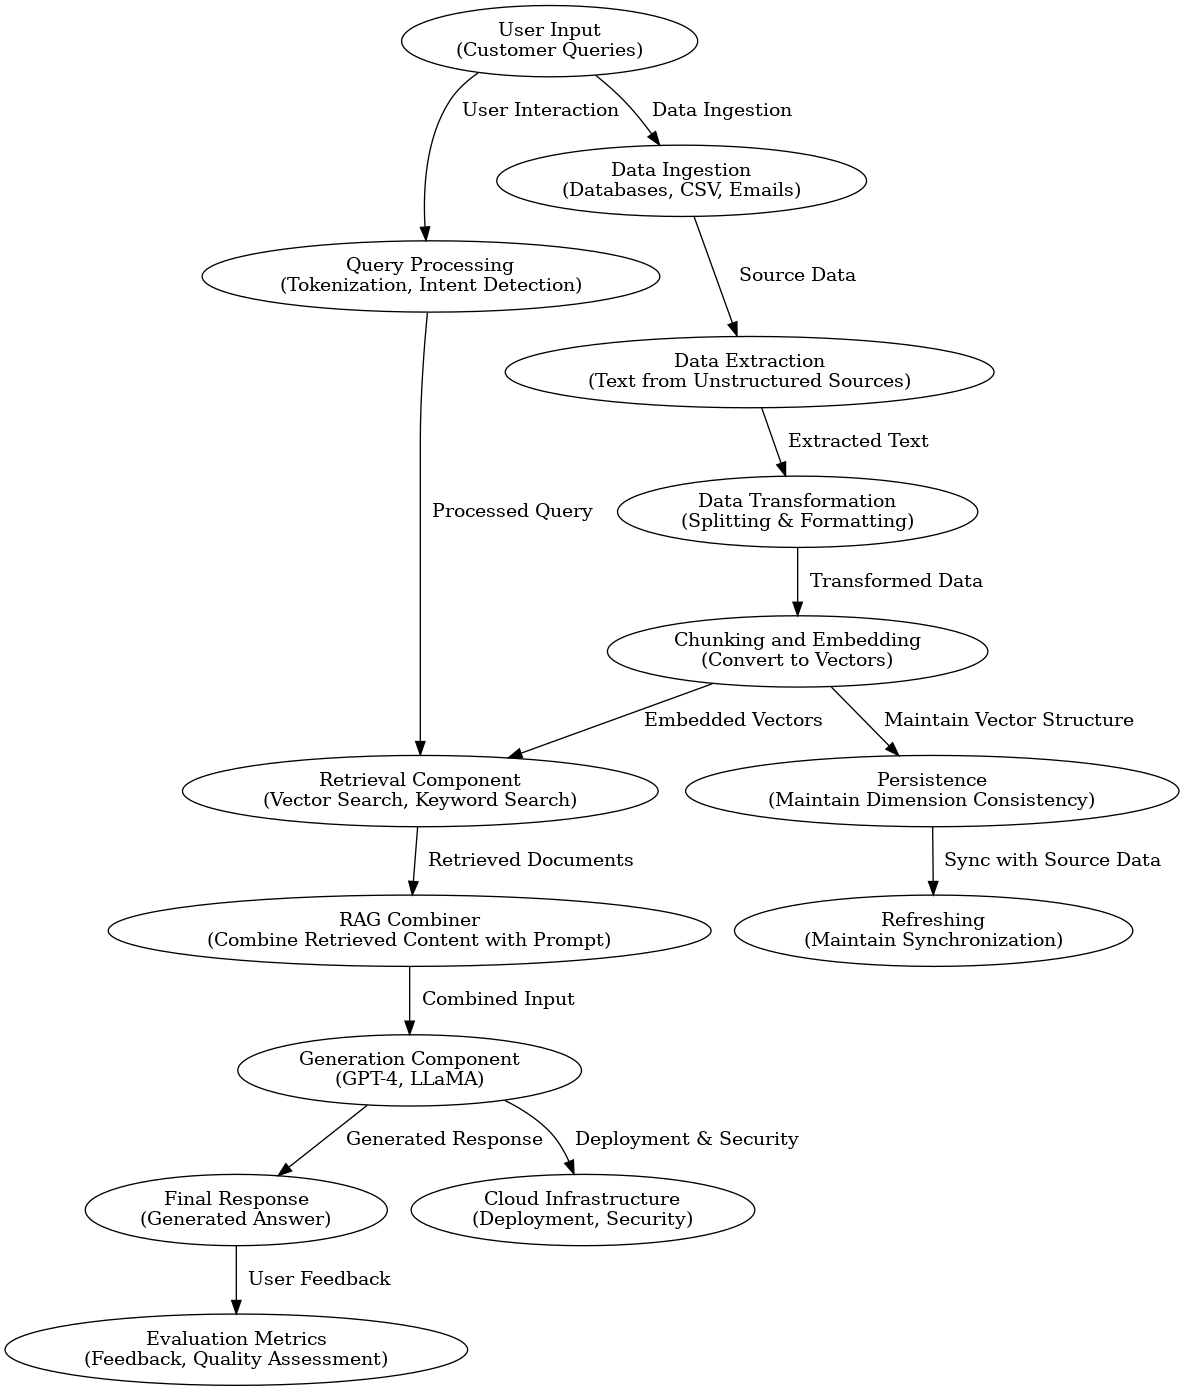
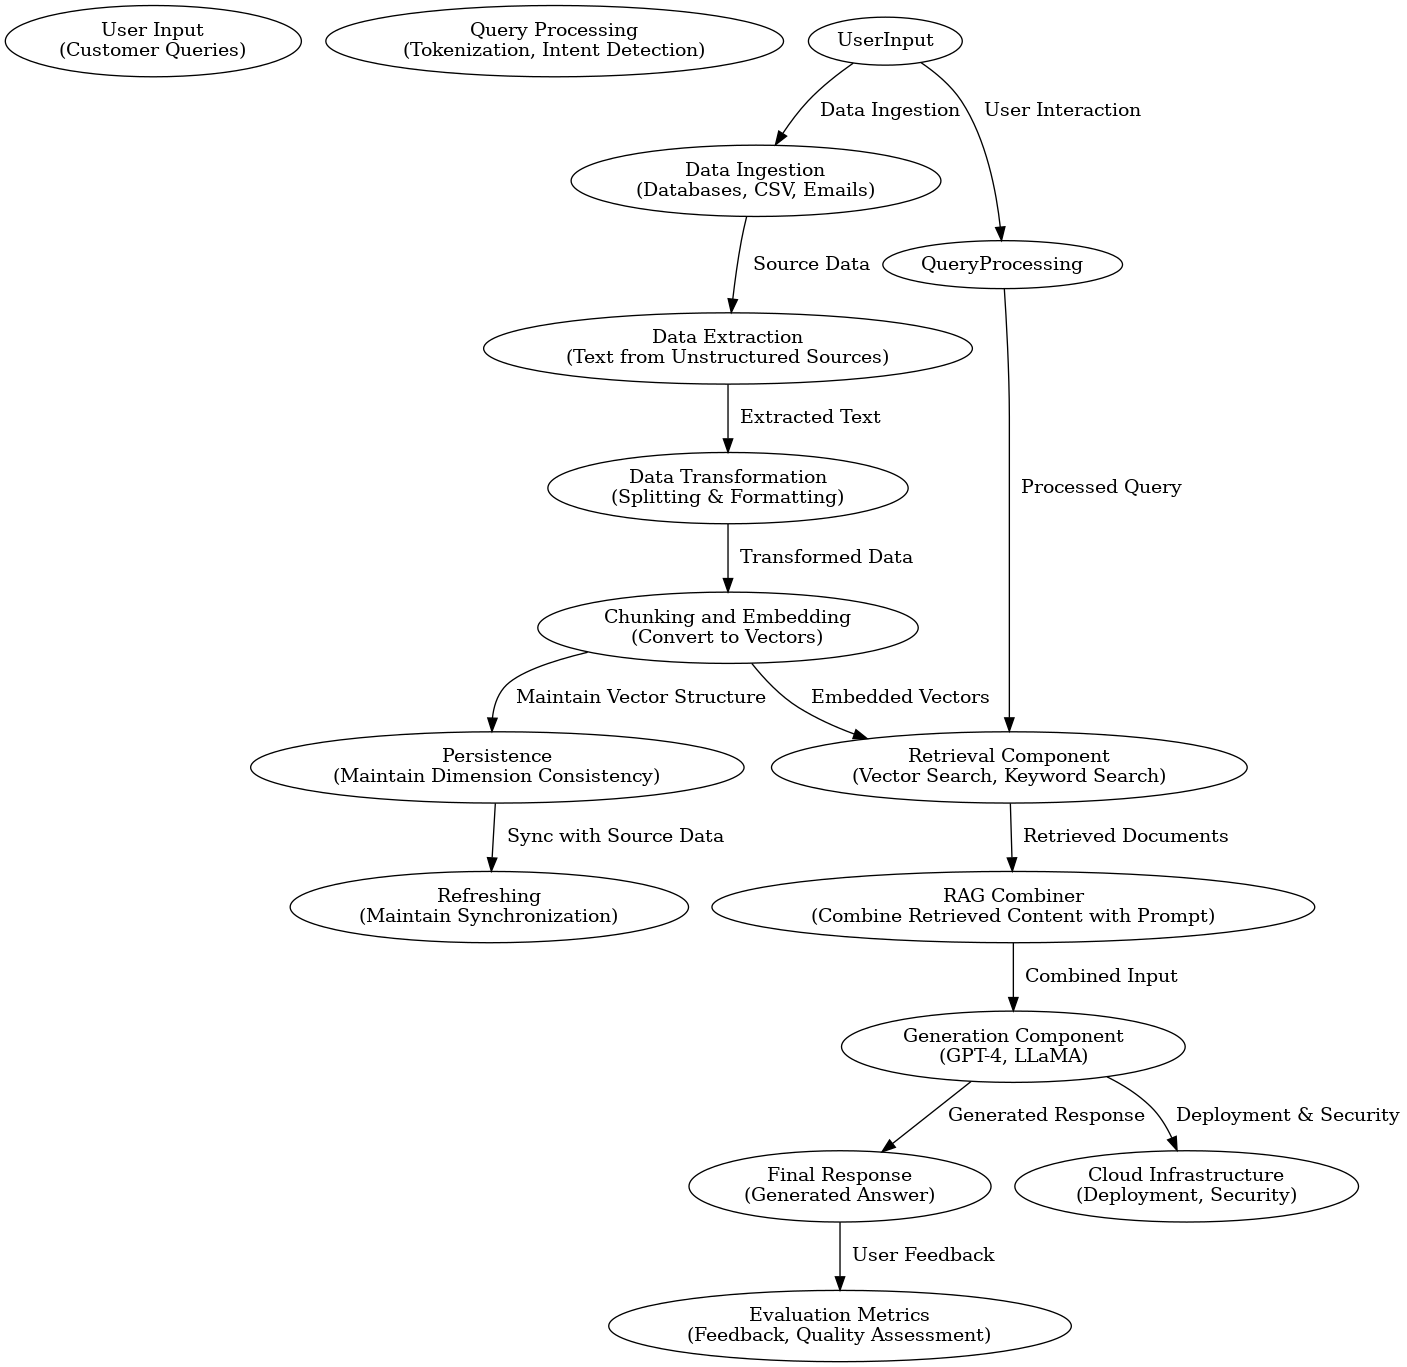
clean up

diff --git a/RAG_pipeline.py b/RAG_pipeline.py
@@ -1,42 +1,68 @@
 from graphviz import Digraph
 
-# Create a new directed graph
 dot = Digraph()
 
-# Define nodes with descriptive names
-dot.node("UserInput", "User Input\n(Customer Queries)")
-dot.node("QueryProcessing", "Query Processing\n(Tokenization, Intent Detection)")
-dot.node("RetrievalComponent", "Retrieval Component\n(Vector Search, Keyword Search)")
-dot.node("RAGCombiner", "RAG Combiner\n(Combine Retrieved Content with Prompt)")
-dot.node("GenerationComponent", "Generation Component\n(GPT-4, LLaMA)")
-dot.node("FinalResponse", "Final Response\n(Generated Answer)")
-dot.node("DataIngestion", "Data Ingestion\n(Databases, CSV, Emails)")
-dot.node("Extraction", "Data Extraction\n(Text from Unstructured Sources)")
-dot.node("Transformation", "Data Transformation\n(Splitting & Formatting)")
-dot.node("ChunkingEmbedding", "Chunking and Embedding\n(Convert to Vectors)")
-dot.node("Persistence", "Persistence\n(Maintain Dimension Consistency)")
-dot.node("Refreshing", "Refreshing\n(Maintain Synchronization)")
-dot.node("CloudInfrastructure", "Cloud Infrastructure\n(Deployment, Security)")
-dot.node("EvaluationMetrics", "Evaluation Metrics\n(Feedback, Quality Assessment)")
+dot.attr(ranksep="1.0", nodesep="1.0")
 
-# Define edges connecting the nodes
-dot.edge("UserInput", "QueryProcessing", label="  User Interaction")
-dot.edge("QueryProcessing", "RetrievalComponent", label="  Processed Query")
-dot.edge("RetrievalComponent", "RAGCombiner", label="  Retrieved Documents")
-dot.edge("RAGCombiner", "GenerationComponent", label="  Combined Input")
-dot.edge("GenerationComponent", "FinalResponse", label="  Generated Response")
+dot.node("User Input", "User Input\n(Customer Queries)", shape="box")
+dot.node(
+    "Query Processing",
+    "Query Processing\n(Tokenization, Intent Detection)",
+    shape="box",
+)
+dot.node(
+    "Retrieval Component",
+    "Retrieval Component\n(Vector Search, Keyword Search)",
+    shape="box",
+)
+dot.node(
+    "RAG Combiner", "RAG Combiner\n(Combine Retrieved Content with Prompt)", shape="box"
+)
+dot.node("Generation Component", "Generation Component\n(GPT-4, LLaMA)", shape="box")
+dot.node("Final Response", "Final Response\n(Generated Answer)", shape="box")
+dot.node("Data Ingestion", "Data Ingestion\n(Databases, CSV, Emails)", shape="box")
+dot.node(
+    "Data Extraction", "Data Extraction\n(Text from Unstructured Sources)", shape="box"
+)
+dot.node(
+    "Data Transformation", "Data Transformation\n(Splitting & Formatting)", shape="box"
+)
+dot.node(
+    "Chunking and Embedding",
+    "Chunking and Embedding\n(Convert to Vectors)",
+    shape="box",
+)
+dot.node("Persistence", "Persistence\n(Maintain Dimension Consistency)", shape="box")
+dot.node("Refreshing", "Refreshing\n(Maintain Synchronization)", shape="box")
+dot.node(
+    "Cloud Infrastructure", "Cloud Infrastructure\n(Deployment, Security)", shape="box"
+)
+dot.node(
+    "Evaluation Metrics",
+    "Evaluation Metrics\n(Feedback, Quality Assessment)",
+    shape="box",
+)
+
+dot.edge("User Input", "Query Processing", label="  User Interaction")
+dot.edge("Query Processing", "Retrieval Component", label="  Processed Query")
+dot.edge("Retrieval Component", "RAG Combiner", label="  Retrieved Documents")
+dot.edge("RAG Combiner", "Generation Component", label="  Combined Input")
+dot.edge("Generation Component", "Final Response", label="  Generated Response")
 
 # Adding Data Pipeline components
-dot.edge("UserInput", "DataIngestion", label="  Data Ingestion")
-dot.edge("DataIngestion", "Extraction", label="  Source Data")
-dot.edge("Extraction", "Transformation", label="  Extracted Text")
-dot.edge("Transformation", "ChunkingEmbedding", label="  Transformed Data")
-dot.edge("ChunkingEmbedding", "RetrievalComponent", label="  Embedded Vectors")
-dot.edge("ChunkingEmbedding", "Persistence", label="  Maintain Vector Structure")
+dot.edge("User Input", "Data Ingestion", label="  Data Ingestion")
+dot.edge("Data Ingestion", "Data Extraction", label="  Source Data")
+dot.edge("Data Extraction", "Data Transformation", label="  Extracted Text")
+dot.edge("Data Transformation", "Chunking and Embedding", label="  Transformed Data")
+dot.edge("Chunking and Embedding", "Retrieval Component", label="  Embedded Vectors")
+dot.edge("Chunking and Embedding", "Persistence", label="  Maintain Vector Structure")
 dot.edge("Persistence", "Refreshing", label="  Sync with Source Data")
 
 # Adding Cloud Infrastructure
-dot.edge("GenerationComponent", "CloudInfrastructure", label="  Deployment & Security")
-dot.edge("FinalResponse", "EvaluationMetrics", label="  User Feedback")
+dot.edge(
+    "Generation Component", "Cloud Infrastructure", label="  Deployment & Security"
+)
+dot.edge("Final Response", "Evaluation Metrics", label="  User Feedback")
+
 
 dot.render("combined_rag_pipeline_diagram", format="png", cleanup=True)
